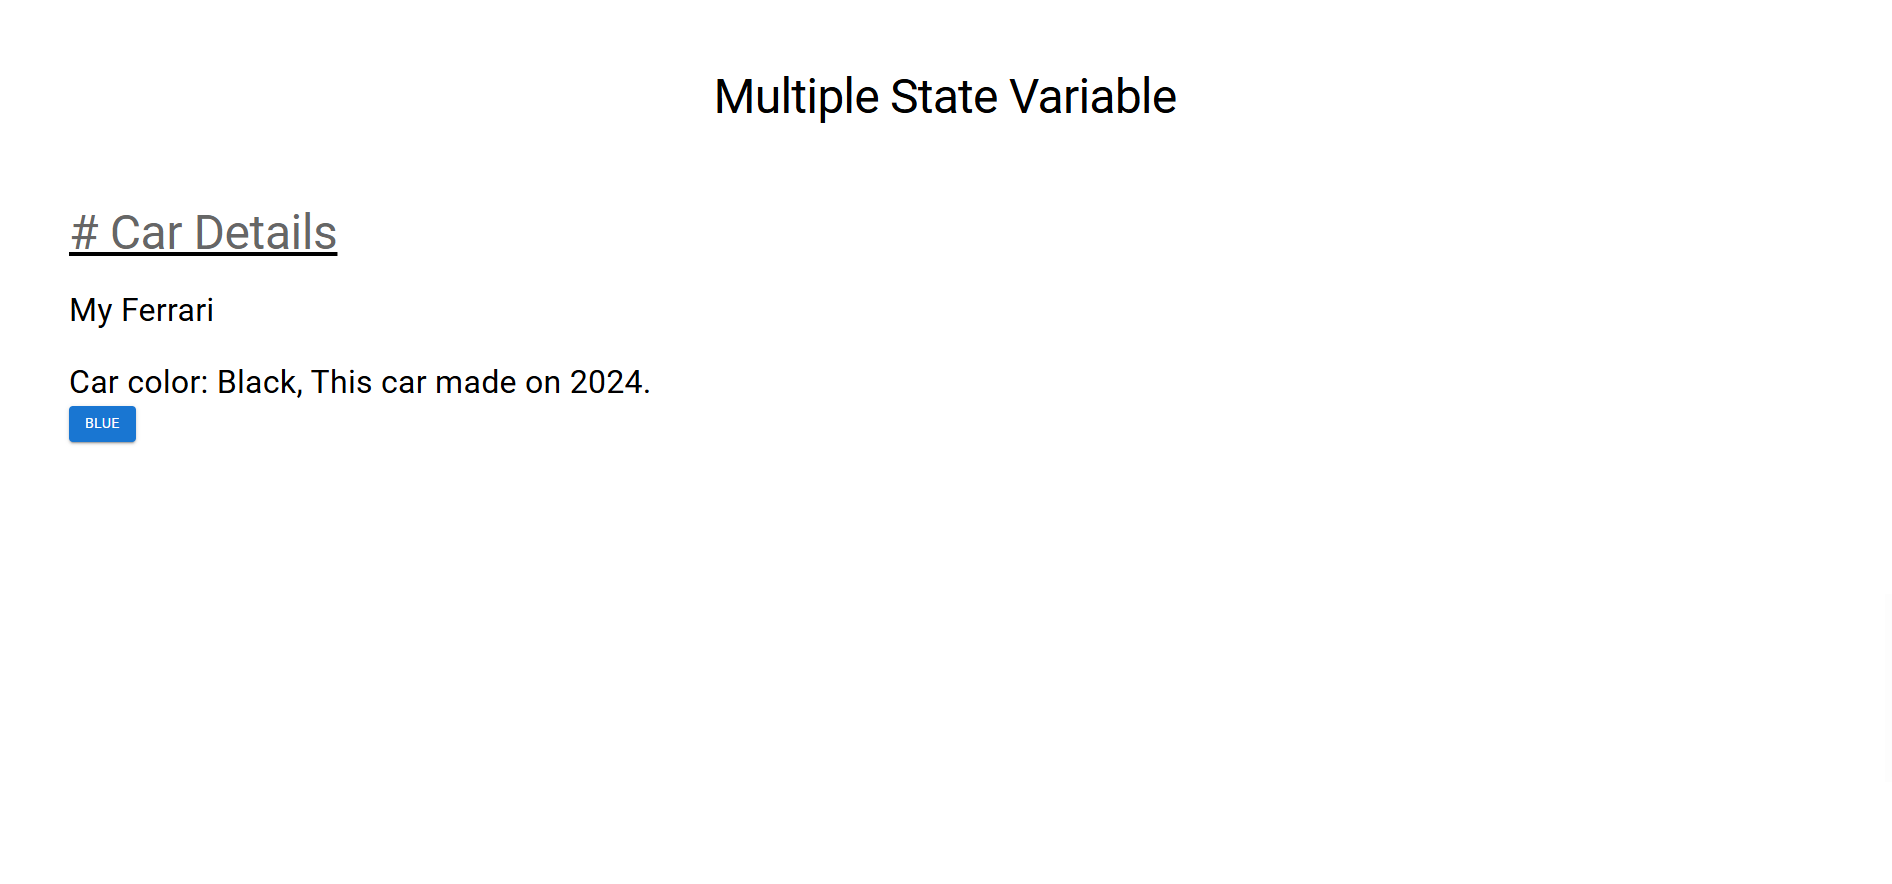
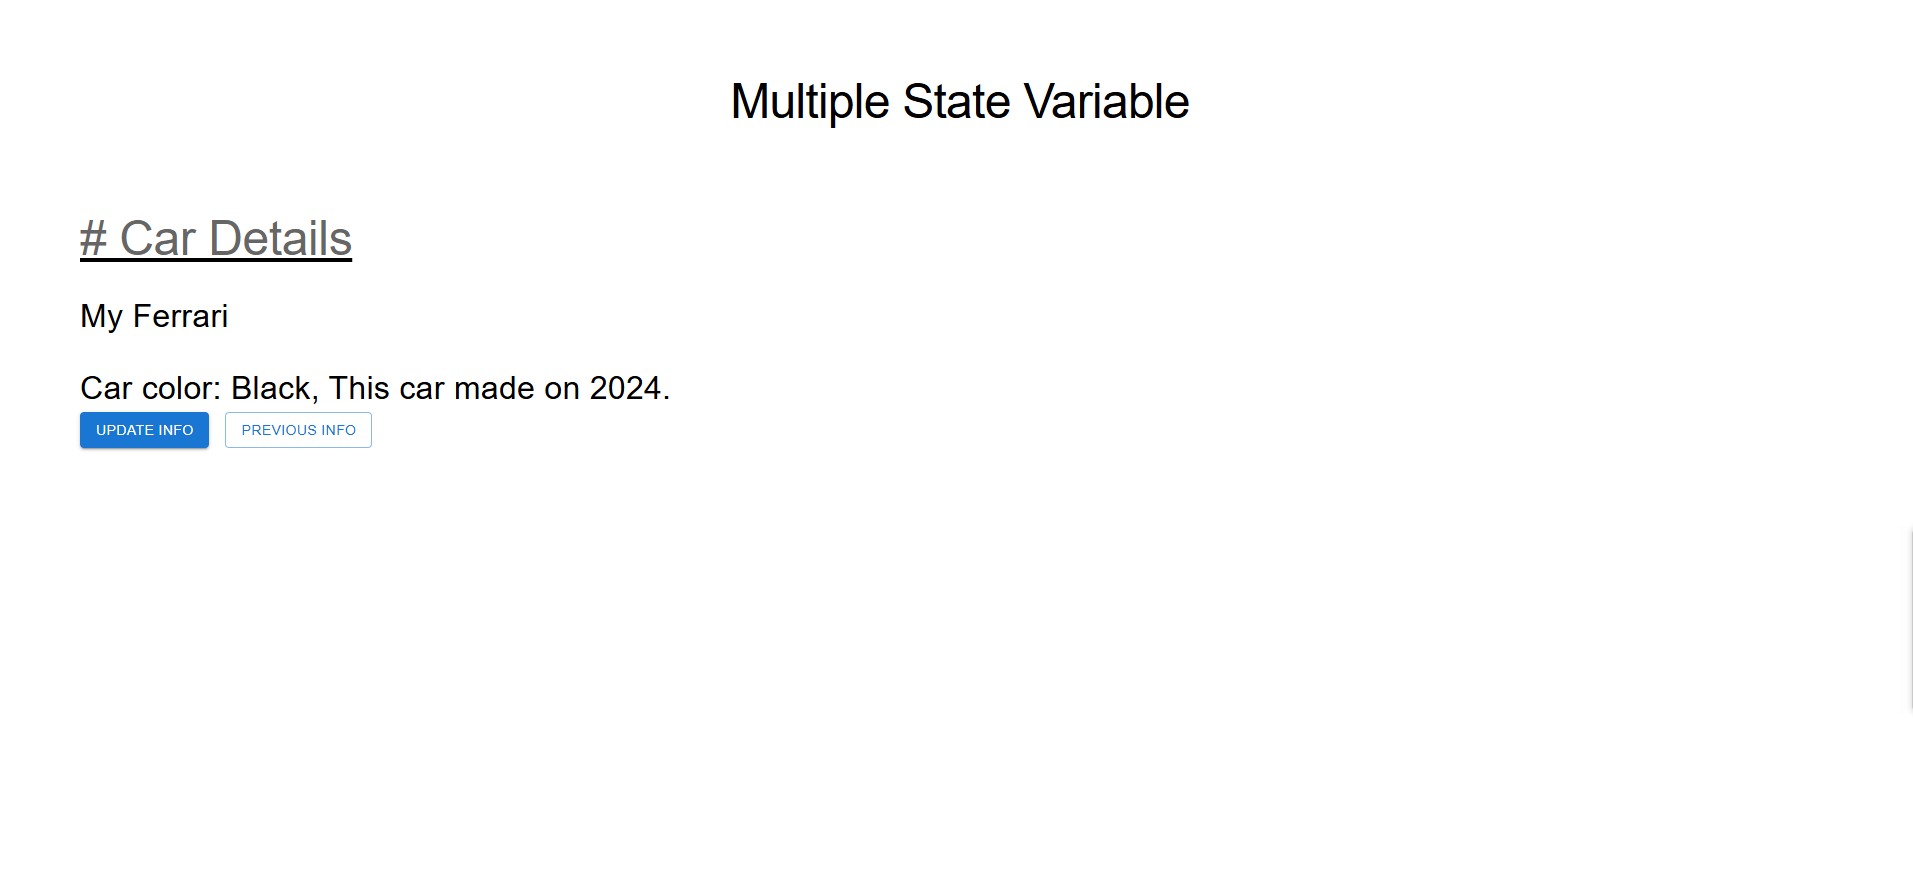
Updating redme

diff --git a/README.md b/README.md
@@ -6,8 +6,12 @@ I will make a simple arrow function that update the variable
 
 # Before
 
-<img src="./After.png" alt="Before PNG"/>
+<img src="./Before.png" alt="Before Information"/>
 
 # After
 
-<img src="./Before.png" alt="After clicking Button"/>
+<img src="./After.png" alt="After clicking [ update Info ]"/>
+
+# Preview information
+
+<img src="./Previous.png" alt="After clicking [ Previous Info ]"/>
